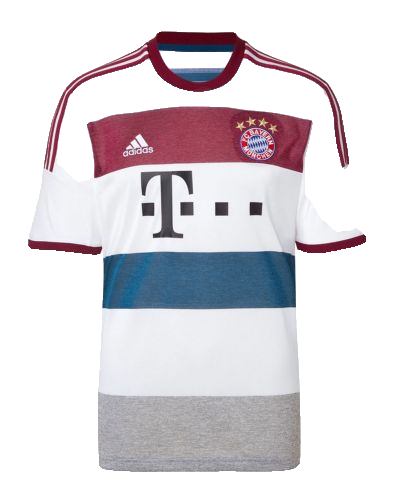
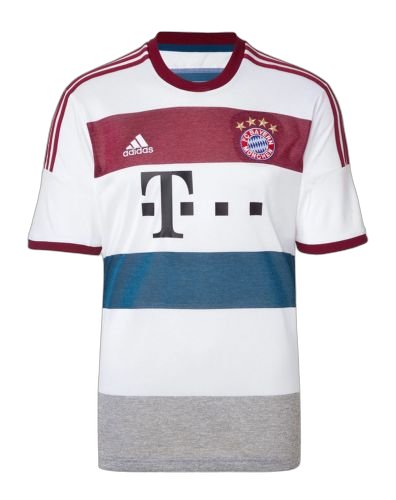
fix: re-cut Bayern/Beckenbauer jerseys with birefnet
The Bayern 14/15 third had bitten sleeves from the isnet pass. Reprocessed
the Bayern/Beckenbauer shirts from originals with birefnet-general and
verified each over a dark background.

diff --git a/scripts/reprocess_named.py b/scripts/reprocess_named.py
@@ -1,0 +1,27 @@
+"""Reprocesa con birefnet los PNG cuyo nombre contiene alguno de los terminos dados.
+Uso: python scripts/reprocess_named.py bayern becken
+Necesita los originales (jpg/jpeg/webp) presentes.
+"""
+import sys
+import pathlib
+from PIL import Image
+from rembg import remove, new_session
+
+root = pathlib.Path("public/camisetas")
+SRC_EXTS = [".jpg", ".jpeg", ".webp"]
+terms = [t.lower() for t in sys.argv[1:]] or ["bayern", "becken"]
+
+targets = [p for p in sorted(root.rglob("*.png")) if any(t in p.name.lower() for t in terms)]
+print(f"{len(targets)} objetivos: {[p.name for p in targets]}")
+
+session = new_session("birefnet-general")
+for i, p in enumerate(targets, 1):
+    src = next((p.with_suffix(e) for e in SRC_EXTS if p.with_suffix(e).exists()), None)
+    if not src:
+        print(f"[{i}/{len(targets)}] SIN ORIGINAL {p.name}")
+        continue
+    with Image.open(src) as im:
+        result = remove(im.convert("RGBA"), session=session)
+    result.save(p)
+    print(f"[{i}/{len(targets)}] rehecho {p.name}")
+print("Listo.")
